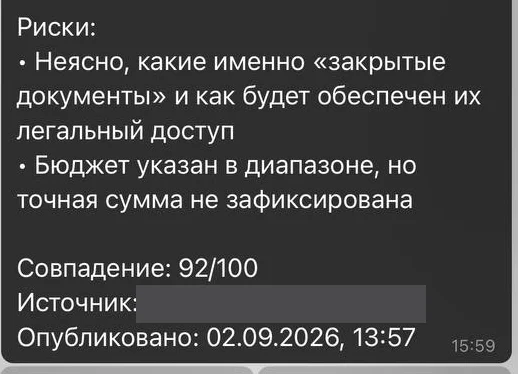
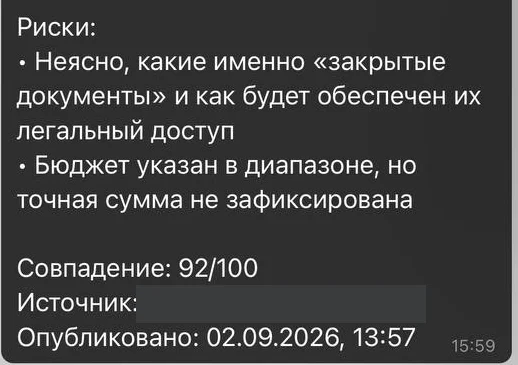
fix: evidence polish — one redaction treatment, exact card boundaries, tighter check
Five corrections on top of the approved v2 concept. No architecture, composition
or visual language changed.

SOURCE WIDTH. The board and the docs conflated the source with the rendering
width. They now state one rule everywhere, including the sanitizer header:
SOURCE = 591 PX · WINDOW <= SOURCE · DEFAULT WINDOW = 518 PX. An asset with a
different source width carries it in its own metadata (hx-01-request is 522px),
and every plate declares its real file size in data-source-width/height.

REDACTION. One canonical treatment: solid --graphite #3A3B3E, no blur, no
gradient, no texture, no Registration Red, no light patch. Chrome removal is now
named as a separate operation with a colour sampled from the image, applied only
to pixels Telegram's own overlay already covered.

The light rectangle by the workspace capture was one of those patches painted
20px too tall, punching a hole in the bubble's top edge. The window now starts on
the bubble's first row, measured off the source, and the date pill's 8px overhang
is patched in the identical adjacent ground.

LEAD RADAR 05.B. Checked against the source rather than by eye: the grey bar at
the foot was the top sliver of the inline keyboard, real output but belonging to
07.A where those buttons are shown complete. Measured the bubble's last row at
932 and cut there, so the window ends on the card's own bottom edge.

HERMES MOBILE. Production already stacked all four plates; the Figma mobile
[…]

diff --git a/src/content/cases.ts b/src/content/cases.ts
@@ -113,7 +113,7 @@ export const cases: Record<string, CaseStudy> = {
           from: "05 QUALIFY",
           src: "lr-02-risk",
           width: 518,
-          height: 374,
+          height: 365,
           alt: "Продолжение той же карточки: блок «Риски», оценка совпадения 92 из 100 и дата публикации",
           readoutLabel: "EXTRACTED SIGNAL",
           readout: [
@@ -232,7 +232,7 @@ export const cases: Record<string, CaseStudy> = {
           title: "WORKSPACE / 30D",
           src: "hx-03-workspace",
           width: 518,
-          height: 620,
+          height: 613,
           alt: "Отчёт ассистента по рабочей таблице за 30 дней; первой строкой он сам отмечает, что изменений не вносил",
           readoutLabel: "SYSTEM READOUT",
           readout: [

diff --git a/docs/CANONICAL_STATE.md b/docs/CANONICAL_STATE.md
@@ -2,7 +2,7 @@
 
 **The single authoritative snapshot of this project as it exists now.**
 
-Last synchronised: 2026-09-05, after Stage 6.2.2 (EvidencePlate v2).
+Last synchronised: 2026-09-05, after Stage 6.2.2 (EvidencePlate v2, final polish).
 
 Every statement below carries one of these labels where its status is not obvious:
 **SHIPPED** · **VERIFIED FACT** · **PENDING REAL ASSET** · **NEEDS USER FACT** ·
@@ -308,16 +308,26 @@ SYSTEM ID  ·  TITLE                              ← PROVENANCE NODE
 |---|---|
 | the capture | **CLEAN and untreated.** No dither, halftone, distortion, blur, overlay or redraw |
 | geometry | the box carries the capture's own aspect ratio; the image is `object-fit: contain`. **Never `cover`, never `clip-path`, never a transform** |
-| size | `max-width` is the source width — 518 or 522 px. The capture is never enlarged past the file that exists |
+| size | **SOURCE = 591 px · WINDOW ≤ SOURCE · DEFAULT WINDOW = 518 px.** Source width and rendering width are different numbers and are never conflated: 591px is what Telegram delivered, 518px is the default window, and an asset with a different source width carries it in its own metadata (`hx-01-request` is 522px). Every plate declares its real file size in `data-source-width` / `data-source-height` |
 | safe inset | 10px between capture and frame, so the hairline never sits on content |
 | id | echoes the system map — `05 QUALIFY` produces `05.A`, `07 DIGEST` produces `07.A`. One Registration Red signal per band, on the plate whose node carries it in the map |
 | provenance | `← 05 QUALIFY`. No connector lines are drawn across the page: the link is id, label, grid position and one shared metadata grammar |
 | readout | the interpretation layer, set in the site's own mono under `EXTRACTED SIGNAL` / `OBSERVED OUTPUT` / `SYSTEM READOUT`. It sits beside the window on desktop and under it on mobile, **never over it**, and never imitates the source interface |
 | mobile | the same plate stacked, capture first and readout under it — not a shrunk desktop frame, and not a tighter re-crop that would cut a message |
 
+**Redaction is one canonical treatment.** Private detail is covered with a solid
+`--graphite #3A3B3E` bar — never blurred, never a gradient, never textured, never
+Registration Red, never a light patch that reads as a sticker, and never replaced with
+invented content. It stays visibly a redaction and stays quieter than the evidence.
+
+**Chrome removal is a different operation** and is invisible by design: Telegram's own
+furniture — date pills, scroll affordances — is painted out in a colour sampled from the
+image itself. It is only ever applied to pixels Telegram's overlay already covered, so no
+message content is lost. Where chrome cannot be removed without touching the message, the
+window is cut to a boundary that excludes it instead.
+
 **Source resolution is 591×1280.** That is what Telegram delivered; no higher-resolution
-original exists on the machine. The windows are therefore 518–522px wide and are rendered
-at most 1:1 in CSS pixels. Sharper evidence would need the phone-native files.
+original exists on the machine. Sharper evidence would need the phone-native files.
 
 `scripts/evidence-boundary-check.mjs` asserts all of this against the running site at
 320 / 375 / 390 / 430 / 768 / 1024 / 1280 / 1440 / 1920: object-fit, aspect ratio against

diff --git a/docs/DESIGN_SYSTEM.md b/docs/DESIGN_SYSTEM.md
@@ -237,7 +237,8 @@ the code asks "is this featured?" any more — `featured` is gone.
 |---|---|
 | web band | `components/work/WebExamples.tsx` — preview, name, type, one line, stack, `VIEW LIVE ↗`. Deliberately carries none of the case grammar |
 | evidence plate | `components/case/EvidencePlate.tsx` — evidence window + system readout in one editorial object. The window is built from the capture's own pixel size, `object-fit: contain`, safe inset, never enlarged. See [`CANONICAL_STATE.md` §3](CANONICAL_STATE.md) |
-| boundary check | `scripts/evidence-boundary-check.mjs` — asserts at nine widths that no layout crops, stretches or enlarges a capture |
+| boundary check | `scripts/evidence-boundary-check.mjs` — asserts at nine widths that no layout crops, stretches or enlarges a capture. Ratio drift must stay ≤0.25% **and** ≤1 CSS px |
+| redaction | solid `--graphite #3A3B3E`, one treatment everywhere. Chrome removal is separate and uses a colour sampled from the image |
 | sanitizer | `scripts/sanitize-evidence.mjs` — crops the raw captures, strips Telegram chrome, masks private detail. Raw sources stay in `.private-assets/`, never committed |
 | ЯсноДом capture | `scripts/capture-yasno.mjs` — the live page at 1440 and 390, fonts settled, no chrome |
 

diff --git a/docs/VISUAL_LANGUAGE.md b/docs/VISUAL_LANGUAGE.md
@@ -587,7 +587,10 @@ distortion — a screenshot the reader cannot read proves nothing.
 And since 6.2.2 the rule has a second half: **SANITIZE MAY CROP, LAYOUT MUST NOT.** The
 sanitised file is canonical; no responsive wrapper may trim a letter, a bubble edge, a
 rounded corner or an action row off it, and it is never displayed larger than the source.
-Composition rules live in the Figma board `SYS / REAL OUTPUT — EVIDENCE PLATE`. The
+Composition rules live in the Figma board `SYS / REAL OUTPUT — EVIDENCE PLATE`.
+
+Redaction has one form: solid `--graphite`, no blur, no gradient, no texture, no accent,
+no light patch. Removing Telegram's own chrome is a different operation and is invisible. The
 raster language is identity, but the visitor must always be able to actually look at the
 interface. Halftone is therefore a *state*, never the only state.
 
